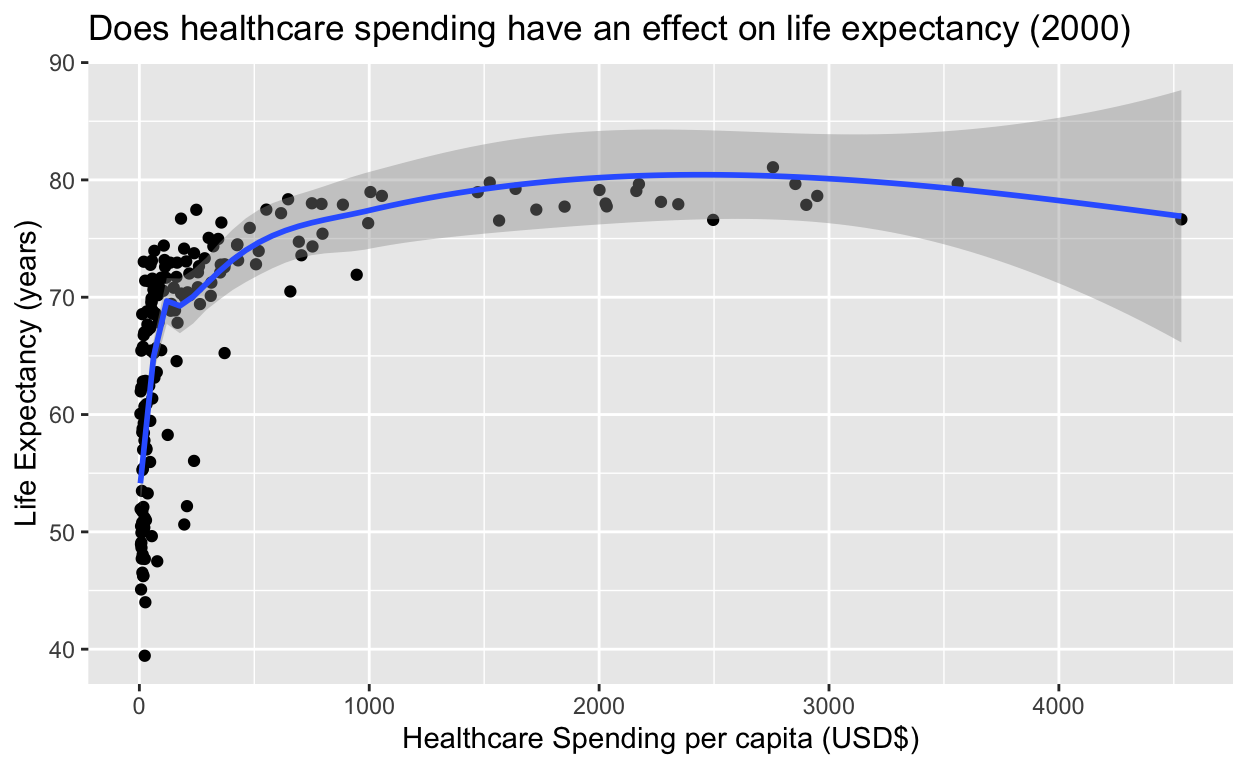
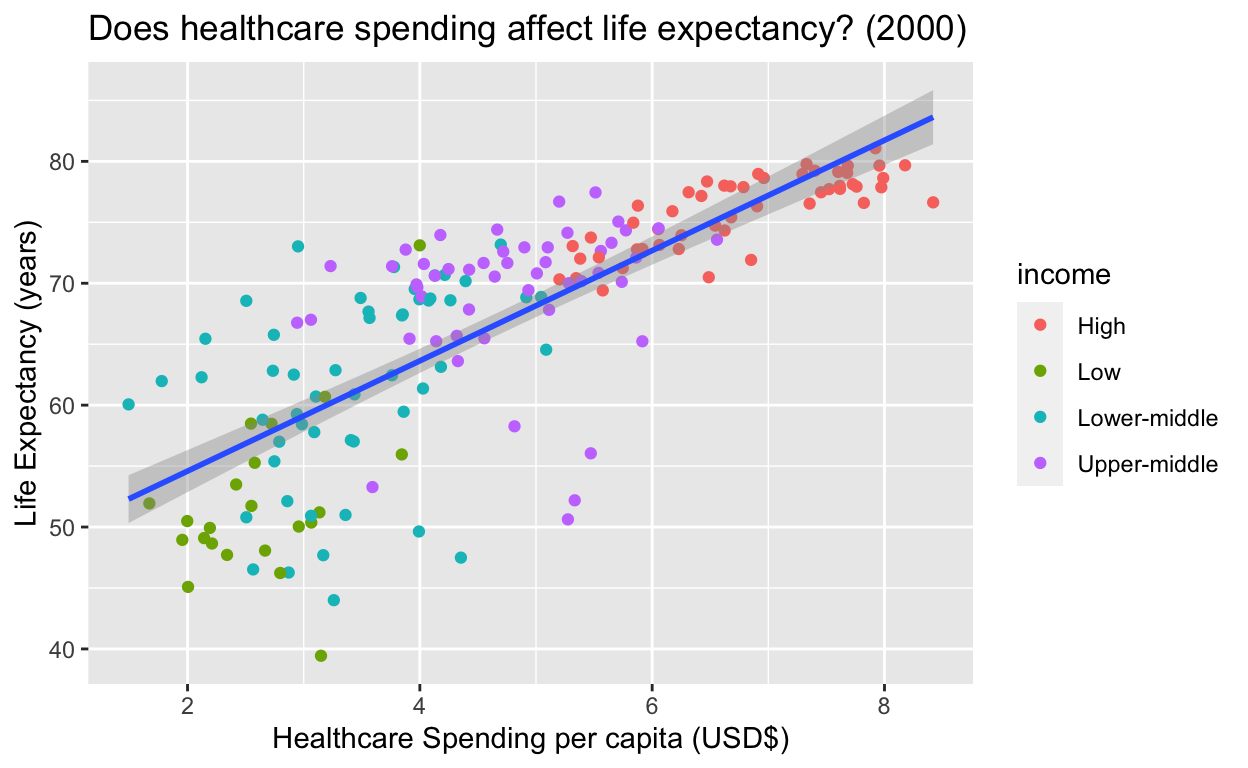
another one

diff --git a/index.html b/index.html
@@ -115,7 +115,7 @@ code span.wa { color: #5e5e5e; font-style: italic; } /* Warning */
   <!--/radix_placeholder_rmarkdown_metadata-->
   
   <script type="text/json" id="radix-resource-manifest">
-  {"type":"character","attributes":{},"value":["GHED_data.XLSX","GLE_data.xls","global life expectancy dataset.csv","index_files/anchor-4.2.2/anchor.min.js","index_files/bowser-1.9.3/bowser.min.js","index_files/distill-2.2.21/template.v2.js","index_files/figure-html5/unnamed-chunk-3-1.png","index_files/header-attrs-2.17/header-attrs.js","index_files/header-attrs-2.24/header-attrs.js","index_files/jquery-3.6.0/jquery-3.6.0.js","index_files/jquery-3.6.0/jquery-3.6.0.min.js","index_files/jquery-3.6.0/jquery-3.6.0.min.map","index_files/popper-2.6.0/popper.min.js","index_files/tippy-6.2.7/tippy-bundle.umd.min.js","index_files/tippy-6.2.7/tippy-light-border.css","index_files/tippy-6.2.7/tippy.css","index_files/tippy-6.2.7/tippy.umd.min.js","index_files/webcomponents-2.0.0/webcomponents.js"]}
+  {"type":"character","attributes":{},"value":["GHED_data.XLSX","GLE_data.xls","global life expectancy dataset.csv","index_files/anchor-4.2.2/anchor.min.js","index_files/bowser-1.9.3/bowser.min.js","index_files/distill-2.2.21/template.v2.js","index_files/figure-html5/unnamed-chunk-3-1.png","index_files/figure-html5/unnamed-chunk-4-1.png","index_files/figure-html5/unnamed-chunk-5-1.png","index_files/figure-html5/unnamed-chunk-6-1.png","index_files/header-attrs-2.17/header-attrs.js","index_files/header-attrs-2.24/header-attrs.js","index_files/jquery-3.6.0/jquery-3.6.0.js","index_files/jquery-3.6.0/jquery-3.6.0.min.js","index_files/jquery-3.6.0/jquery-3.6.0.min.map","index_files/popper-2.6.0/popper.min.js","index_files/tippy-6.2.7/tippy-bundle.umd.min.js","index_files/tippy-6.2.7/tippy-light-border.css","index_files/tippy-6.2.7/tippy.css","index_files/tippy-6.2.7/tippy.umd.min.js","index_files/webcomponents-2.0.0/webcomponents.js"]}
   </script>
   <!--radix_placeholder_navigation_in_header-->
   <!--/radix_placeholder_navigation_in_header-->
@@ -1529,7 +1529,7 @@ code span.wa { color: #5e5e5e; font-style: italic; } /* Warning */
 </div>
 <pre><code>
 The downloaded binary packages are in
-    /var/folders/fm/zk1jh5qx1j9grtm11fmvnj2r0000gn/T//RtmpL0W7ew/downloaded_packages</code></pre>
+    /var/folders/fm/zk1jh5qx1j9grtm11fmvnj2r0000gn/T//RtmpNDc2SP/downloaded_packages</code></pre>
 <div class="sourceCode">
 <pre class="sourceCode r"><code class="sourceCode r"><span><span class='kw'><a href='https://rdrr.io/r/base/library.html'>library</a></span><span class='op'>(</span><span class='st'><a href='https://readxl.tidyverse.org'>"readxl"</a></span><span class='op'>)</span></span>
 <span><span class='va'>GHED</span> <span class='op'>&lt;-</span> <span class='fu'><a href='https://readxl.tidyverse.org/reference/read_excel.html'>read_excel</a></span><span class='op'>(</span><span class='st'>"GHED_data.xlsx"</span><span class='op'>)</span></span>
@@ -1575,17 +1575,64 @@ The downloaded binary packages are in
 <pre class="sourceCode r"><code class="sourceCode r"><span><span class='co'># Data visualization: Creating a scatter plot of country's health expenditures and life expectancy in 2000. </span></span>
 <span></span>
 <span><span class='kw'><a href='https://rdrr.io/r/base/library.html'>library</a></span><span class='op'>(</span><span class='va'><a href='https://tidyverse.tidyverse.org'>tidyverse</a></span><span class='op'>)</span></span>
+<span><span class='kw'><a href='https://rdrr.io/r/base/library.html'>library</a></span><span class='op'>(</span><span class='va'><a href='https://ggplot2.tidyverse.org'>ggplot2</a></span><span class='op'>)</span></span>
 <span><span class='va'>CHE_LifeExp</span> <span class='op'>&lt;-</span> <span class='va'>merged_df</span> <span class='op'>|&gt;</span></span>
 <span>  <span class='fu'><a href='https://dplyr.tidyverse.org/reference/filter.html'>filter</a></span><span class='op'>(</span><span class='va'>merged_df</span><span class='op'>$</span><span class='va'>year</span> <span class='op'>==</span> <span class='st'>'2000'</span><span class='op'>)</span> <span class='op'>|&gt;</span></span>
-<span>  <span class='fu'><a href='https://ggplot2.tidyverse.org/reference/ggplot.html'>ggplot</a></span><span class='op'>(</span>mapping <span class='op'>=</span> <span class='fu'><a href='https://ggplot2.tidyverse.org/reference/aes.html'>aes</a></span><span class='op'>(</span>x <span class='op'>=</span> <span class='va'>che_pc_usd</span>, y <span class='op'>=</span> <span class='va'>lifeExp</span><span class='op'>)</span><span class='op'>)</span> <span class='op'>+</span> </span>
-<span>  <span class='fu'><a href='https://ggplot2.tidyverse.org/reference/geom_point.html'>geom_point</a></span><span class='op'>(</span><span class='op'>)</span> <span class='op'>+</span></span>
-<span>  <span class='fu'><a href='https://ggplot2.tidyverse.org/reference/geom_smooth.html'>geom_smooth</a></span><span class='op'>(</span><span class='op'>)</span> <span class='op'>+</span></span>
-<span>  <span class='fu'><a href='https://ggplot2.tidyverse.org/reference/labs.html'>labs</a></span><span class='op'>(</span>x <span class='op'>=</span> <span class='st'>"Healthcare Spending per capita (USD$)"</span>, y <span class='op'>=</span> <span class='st'>"Life Expectancy (years)"</span>, title <span class='op'>=</span> <span class='st'>"Does healthcare spending have an effect on life expectancy (2000)"</span><span class='op'>)</span></span>
+<span>  <span class='fu'><a href='https://ggplot2.tidyverse.org/reference/ggplot.html'>ggplot</a></span><span class='op'>(</span>mapping <span class='op'>=</span> <span class='fu'><a href='https://ggplot2.tidyverse.org/reference/aes.html'>aes</a></span><span class='op'>(</span>x <span class='op'>=</span> <span class='fu'><a href='https://rdrr.io/r/base/Log.html'>log</a></span><span class='op'>(</span><span class='va'>che_pc_usd</span><span class='op'>)</span>, y <span class='op'>=</span> <span class='va'>lifeExp</span><span class='op'>)</span><span class='op'>)</span> <span class='op'>+</span> </span>
+<span>  <span class='fu'><a href='https://ggplot2.tidyverse.org/reference/geom_point.html'>geom_point</a></span><span class='op'>(</span><span class='fu'><a href='https://ggplot2.tidyverse.org/reference/aes.html'>aes</a></span><span class='op'>(</span>color <span class='op'>=</span> <span class='va'>income</span><span class='op'>)</span><span class='op'>)</span> <span class='op'>+</span></span>
+<span>  <span class='fu'><a href='https://ggplot2.tidyverse.org/reference/geom_smooth.html'>geom_smooth</a></span><span class='op'>(</span>method <span class='op'>=</span> <span class='st'>"lm"</span><span class='op'>)</span> <span class='op'>+</span></span>
+<span>  <span class='fu'><a href='https://ggplot2.tidyverse.org/reference/labs.html'>labs</a></span><span class='op'>(</span>x <span class='op'>=</span> <span class='st'>"Healthcare Spending per capita (USD$)"</span>, y <span class='op'>=</span> <span class='st'>"Life Expectancy (years)"</span>, title <span class='op'>=</span> <span class='st'>"Does healthcare spending affect life expectancy? (2000)"</span><span class='op'>)</span></span>
 <span><span class='va'>CHE_LifeExp</span></span></code></pre>
 </div>
 <p><img src="index_files/figure-html5/unnamed-chunk-3-1.png" width="624" /></p>
 </div>
-<div class="sourceCode" id="cb2"><pre class="sourceCode r distill-force-highlighting-css"><code class="sourceCode r"></code></pre></div>
+<h2 id="initial-analysis">Initial Analysis</h2>
+<p>When answering the question of how healthcare spending may affect life expectancy, I started by first observing the relationship between healthcare spending per capita in USD and life expectancy in years. After creating a visualization, it was difficult to describe a linear relationship and consequently scaled the healthcare spending per capita to a natural logarithm. It initially seemed pretty clear that there was a positive association: as healthcare spending per capita increased, so did life expectancy. I tested the strength of this relationship by calculating the correlation coefficient (r-value):</p>
+<div class="layout-chunk" data-layout="l-body">
+<div class="sourceCode">
+<pre class="sourceCode r"><code class="sourceCode r"><span><span class='co'># Calculating the correlation coefficient (r-value)</span></span>
+<span><span class='va'>CHE_rvalue</span> <span class='op'>&lt;-</span> <span class='fu'><a href='https://rdrr.io/r/stats/cor.html'>cor</a></span><span class='op'>(</span><span class='va'>merged_df</span><span class='op'>$</span><span class='va'>year</span>, <span class='va'>merged_df</span><span class='op'>$</span><span class='va'>che_pc_usd</span>, use <span class='op'>=</span> <span class='st'>"complete.obs"</span><span class='op'>)</span></span>
+<span><span class='va'>CHE_rvalue</span></span></code></pre>
+</div>
+<pre><code>[1] 0.1611475</code></pre>
+<div class="sourceCode">
+<pre class="sourceCode r"><code class="sourceCode r"><span><span class='co'># Calculating the determination coefficient (square of r-value)</span></span>
+<span><span class='op'>(</span><span class='va'>CHE_rvalue</span><span class='op'>)</span><span class='op'>^</span><span class='fl'>2</span></span></code></pre>
+</div>
+<pre><code>[1] 0.02596851</code></pre>
+</div>
+<p>R values closer to 1 would mean more data points fall upon the fitted line, while a value closer to 0 would show less correlation. Although this in itself demonstrates weak correlation, the coefficient of determination (square of the r-value) may be more indicative.
+The determination coefficient means that a percentage variation in the y variable can be explained by the x variable. In this context, 2.6% of the variation in life expectancy can be explained by the current level of healthcare spending per capita. This demonstrates a weak correlation between healthcare spending and life expectancy. Furthermore, there is a potentially confounding variable: the level of income. The scatter plot was color coded by the level of income each country has (e.g, low, high, etc.) and it can be distinctly observed that each income group was naturally formed into tight clumps respect to healthcare spending (e.g, high income countries were closely grouped on the higher end of spending). This does not take into account the value of the dollar in each country. In order to mitigate this potential confounder, I changed the measurement of healthcare spending from per capita in USD to percentage of GDP, which made the following graph:</p>
+<div class="layout-chunk" data-layout="l-body">
+<div class="sourceCode">
+<pre class="sourceCode r"><code class="sourceCode r"><span><span class='kw'><a href='https://rdrr.io/r/base/library.html'>library</a></span><span class='op'>(</span><span class='va'><a href='https://tidyverse.tidyverse.org'>tidyverse</a></span><span class='op'>)</span></span>
+<span><span class='va'>`CHE(GDP)_LifeExp`</span> <span class='op'>&lt;-</span> <span class='va'>merged_df</span> <span class='op'>|&gt;</span></span>
+<span>  <span class='fu'><a href='https://dplyr.tidyverse.org/reference/filter.html'>filter</a></span><span class='op'>(</span><span class='va'>merged_df</span><span class='op'>$</span><span class='va'>year</span> <span class='op'>==</span> <span class='st'>'2000'</span><span class='op'>)</span> <span class='op'>|&gt;</span></span>
+<span>  <span class='fu'><a href='https://ggplot2.tidyverse.org/reference/ggplot.html'>ggplot</a></span><span class='op'>(</span>mapping <span class='op'>=</span> <span class='fu'><a href='https://ggplot2.tidyverse.org/reference/aes.html'>aes</a></span><span class='op'>(</span>x <span class='op'>=</span> <span class='va'>che_gdp</span>, y <span class='op'>=</span> <span class='va'>lifeExp</span><span class='op'>)</span><span class='op'>)</span> <span class='op'>+</span> </span>
+<span>  <span class='fu'><a href='https://ggplot2.tidyverse.org/reference/geom_point.html'>geom_point</a></span><span class='op'>(</span><span class='fu'><a href='https://ggplot2.tidyverse.org/reference/aes.html'>aes</a></span><span class='op'>(</span>color <span class='op'>=</span> <span class='va'>income</span><span class='op'>)</span><span class='op'>)</span> <span class='op'>+</span></span>
+<span>  <span class='fu'><a href='https://ggplot2.tidyverse.org/reference/geom_smooth.html'>geom_smooth</a></span><span class='op'>(</span>method <span class='op'>=</span> <span class='st'>"lm"</span><span class='op'>)</span> <span class='op'>+</span></span>
+<span>  <span class='fu'><a href='https://ggplot2.tidyverse.org/reference/labs.html'>labs</a></span><span class='op'>(</span>x <span class='op'>=</span> <span class='st'>"Healthcare Spending as % of GDP"</span>, y <span class='op'>=</span> <span class='st'>"Life Expectancy (years)"</span>, title <span class='op'>=</span> <span class='st'>"Does healthcare spending affect life expectancy? (2000)"</span><span class='op'>)</span></span>
+<span><span class='va'>`CHE(GDP)_LifeExp`</span></span></code></pre>
+</div>
+<p><img src="index_files/figure-html5/unnamed-chunk-5-1.png" width="624" /></p>
+</div>
+<h2 id="further-analysis">Further Analysis</h2>
+<p>It is noticeably different, with most countries regardless of income having roughly similar percentages of GDP dedicated to healthcare spending. First, it is helpful to compute the new coefficient of correlation:</p>
+<div class="layout-chunk" data-layout="l-body">
+<div class="sourceCode">
+<pre class="sourceCode r"><code class="sourceCode r"><span><span class='co'># Calculating the correlation coefficient</span></span>
+<span><span class='va'>GDP_rvalue</span> <span class='op'>&lt;-</span> <span class='fu'><a href='https://rdrr.io/r/stats/cor.html'>cor</a></span><span class='op'>(</span><span class='va'>merged_df</span><span class='op'>$</span><span class='va'>year</span>, <span class='va'>merged_df</span><span class='op'>$</span><span class='va'>che_gdp</span>, use <span class='op'>=</span> <span class='st'>"complete.obs"</span><span class='op'>)</span></span>
+<span><span class='va'>GDP_rvalue</span></span></code></pre>
+</div>
+<pre><code>[1] 0.113793</code></pre>
+<div class="sourceCode">
+<pre class="sourceCode r"><code class="sourceCode r"><span><span class='co'># Calculating the determination coefficient</span></span>
+<span><span class='op'>(</span><span class='va'>GDP_rvalue</span><span class='op'>)</span><span class='op'>^</span><span class='fl'>2</span></span></code></pre>
+</div>
+<pre><code>[1] 0.01294885</code></pre>
+</div>
+<p>We observe that the correlation coefficient has decreased by approximately 0.047, or a 29% decrease compared to the previous coefficient. We also notice that when we square this value, we find that the coefficient of determination is roughly 0.013. This is a marked decrease from the previous value; now, only 1.3% of variation in life expectancy can be explained by healthcare spending as a % of GDP. Admittedly, this model is not entirely perfect for determining the relationship between healthcare spending and life expectancy. Instead of measuring healthcare spending as a percentage of GDP, it may be more sensible to measure it adjusted accordingly to purchasing power parity (PPP). In that case, the value of the dollar may have an effect on healthcare spending, and may change the strength of the relationship. However, at the current point in this research, it appears that there is a very weak correlation between healthcare spending and life expectancy, and it would be worth exploring other contributing factors to life expectancy.</p>
+<div class="sourceCode" id="cb6"><pre class="sourceCode r distill-force-highlighting-css"><code class="sourceCode r"></code></pre></div>
 <!--radix_placeholder_article_footer-->
 <!--/radix_placeholder_article_footer-->
 </div>
